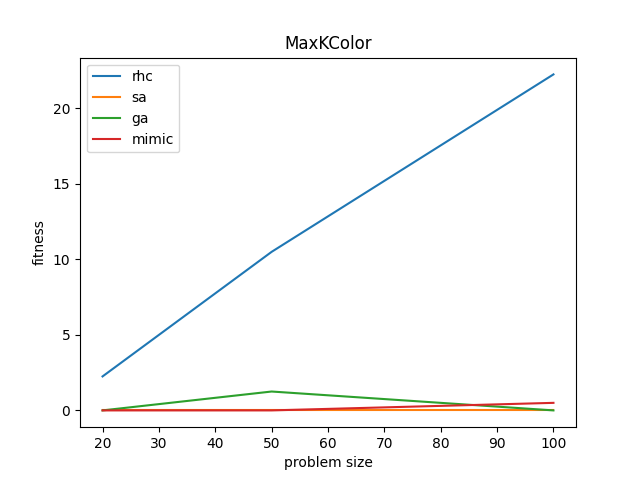
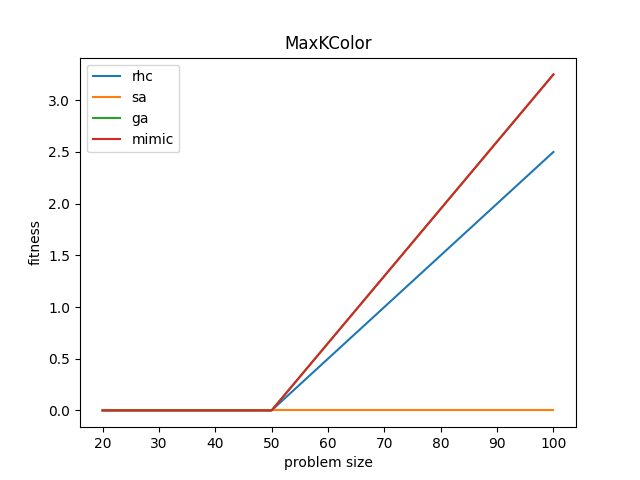
add finess over size plot for P1

diff --git a/P2-RO/main.py b/P2-RO/main.py
@@ -584,13 +584,13 @@ if __name__ == "__main__":
 
     # problem 1
     init_state = init_states = [
-        np.random.randint(0, 2, 10),
-        np.random.randint(0, 2, 30),
+        np.random.randint(0, 2, 20),
         np.random.randint(0, 2, 50),
+        np.random.randint(0, 2, 100),
         # np.random.randint(0, 2, 100) # mimic takes a long time to run, will need to run overnight
     ]
     # plt.figure()
-    fit_func = SixPeaks()
+    fit_func = MaxKColor([])
 
     # calls for tuning
     # get medium size
@@ -750,20 +750,20 @@ if __name__ == "__main__":
     #     problem = MaxKColorGenerator().generate(seed=123, number_of_nodes=len(init_state),
     #                                             max_connections_per_node=4, max_colors=None)
     #     # RHC_vals.append(
-    #     _,_,evals = run_RHC_1(problem, init_state)
-    #     RHC_vals.append(evals)
+    #     fit,_,evals = run_RHC_1(problem, init_state)
+    #     RHC_vals.append(fit)
     #     # )
     #     # SA_vals.append(
-    #     _,_,evals = run_SA_1(problem, init_state)
-    #     SA_vals.append(evals)
+    #     fit,_,evals = run_SA_1(problem, init_state)
+    #     SA_vals.append(fit)
     #     # )
     #     # GA_vals.append(
-    #     _,_,evals = run_GA_1(problem, init_state)
-    #     GA_vals.append(evals)
+    #     fit,_,evals = run_GA_1(problem, init_state)
+    #     GA_vals.append(fit)
     #     # )
     #     # MIMIC_vals.append(
-    #     _,_,evals = run_MIMIC_1(problem, init_state)
-    #     MIMIC_vals.append(evals)
+    #     fit,_,evals = run_MIMIC_1(problem, init_state)
+    #     MIMIC_vals.append(fit)
     #     #)
     # plt.plot(lens, RHC_vals, label="rhc")
     # plt.plot(lens, SA_vals, label="sa")
@@ -774,80 +774,80 @@ if __name__ == "__main__":
     # problem_name = str(fit_func).split('.')[-1].split(' ')[0]
     # plt.title(problem_name)
     # plt.xlabel("problem size")
-    # plt.ylabel("fevals")
+    # plt.ylabel("fitness")
     # plt.legend()
-    # plt.savefig(f"charts/{problem_name}_fevals")
+    # plt.savefig(f"charts/{problem_name}")
     # plt.show()
     # plt.close('all')
 
     # problem 2
-    init_state = init_states = [
-        np.random.randint(0, 2, 10),
-        np.random.randint(0, 2, 30),
-        np.random.randint(0, 2, 50),
-        # np.random.randint(0, 2, 100) # mimic takes a long time to run, will need to run overnight
-    ]
+    # init_state = init_states = [
+    #     np.random.randint(0, 2, 10),
+    #     np.random.randint(0, 2, 30),
+    #     np.random.randint(0, 2, 50),
+    #     # np.random.randint(0, 2, 100) # mimic takes a long time to run, will need to run overnight
+    # ]
+    # # plt.figure()
+    # fit_func = SixPeaks()
+    #
+    # # calls for tuning
+    # # get medium size
+    # # init_state = init_states[1]
+    # # problem = DiscreteOpt(length=len(init_state), fitness_fn=fit_func)
+    # # run_RHC_2(problem, init_state)
+    # # run_SA_2(problem, init_state)
+    # # run_GA_2(problem, init_state)
+    # # run_MIMIC_2(problem, init_state)
+    #
+    # # plot time over problem sizes
+    # lens = [len(init_state) for init_state in init_states]
+    # RHC_vals = []
+    # SA_vals = []
+    # GA_vals = []
+    # MIMIC_vals = []
+    # RHC_times = []
+    # SA_times = []
+    # GA_times = []
+    # MIMIC_times = []
+    # for init_state in init_states:
+    #     problem = DiscreteOpt(length=len(init_state), fitness_fn=fit_func)
+    #     fit, duration,_ = run_RHC_2(problem, init_state)
+    #     RHC_vals.append(fit)
+    #     RHC_times.append(duration)
+    #     fit, duration,_ = run_SA_2(problem, init_state)
+    #     SA_vals.append(fit)
+    #     SA_times.append(duration)
+    #     fit, duration,_ = run_GA_2(problem, init_state)
+    #     GA_vals.append(fit)
+    #     GA_times.append(duration)
+    #     fit, duration,_ = run_MIMIC_2(problem, init_state)
+    #     MIMIC_vals.append(fit)
+    #     MIMIC_times.append(duration)
+    # plt.plot(lens, RHC_vals, label="rhc")
+    # plt.plot(lens, SA_vals, label="sa")
+    # plt.plot(lens, GA_vals, label="ga")
+    # plt.plot(lens, MIMIC_vals, label="mimic")
+    #
+    # print()
+    # problem_name = str(fit_func).split('.')[-1].split(' ')[0]
+    # plt.title(problem_name)
+    # plt.xlabel("problem size")
+    # plt.ylabel("fitness")
+    # plt.legend()
+    # plt.savefig(f"charts/{problem_name}")
+    #
     # plt.figure()
-    fit_func = SixPeaks()
-
-    # calls for tuning
-    # get medium size
-    # init_state = init_states[1]
-    # problem = DiscreteOpt(length=len(init_state), fitness_fn=fit_func)
-    # run_RHC_2(problem, init_state)
-    # run_SA_2(problem, init_state)
-    # run_GA_2(problem, init_state)
-    # run_MIMIC_2(problem, init_state)
-
-    # plot time over problem sizes
-    lens = [len(init_state) for init_state in init_states]
-    RHC_vals = []
-    SA_vals = []
-    GA_vals = []
-    MIMIC_vals = []
-    RHC_times = []
-    SA_times = []
-    GA_times = []
-    MIMIC_times = []
-    for init_state in init_states:
-        problem = DiscreteOpt(length=len(init_state), fitness_fn=fit_func)
-        fit, duration,_ = run_RHC_2(problem, init_state)
-        RHC_vals.append(fit)
-        RHC_times.append(duration)
-        fit, duration,_ = run_SA_2(problem, init_state)
-        SA_vals.append(fit)
-        SA_times.append(duration)
-        fit, duration,_ = run_GA_2(problem, init_state)
-        GA_vals.append(fit)
-        GA_times.append(duration)
-        fit, duration,_ = run_MIMIC_2(problem, init_state)
-        MIMIC_vals.append(fit)
-        MIMIC_times.append(duration)
-    plt.plot(lens, RHC_vals, label="rhc")
-    plt.plot(lens, SA_vals, label="sa")
-    plt.plot(lens, GA_vals, label="ga")
-    plt.plot(lens, MIMIC_vals, label="mimic")
-
-    print()
-    problem_name = str(fit_func).split('.')[-1].split(' ')[0]
-    plt.title(problem_name)
-    plt.xlabel("problem size")
-    plt.ylabel("fitness")
-    plt.legend()
-    plt.savefig(f"charts/{problem_name}")
-
-    plt.figure()
-    plt.title(f"{problem_name} times")
-    plt.xlabel("problem size")
-    plt.ylabel("time (seconds)")
-    plt.plot(lens, RHC_times, label="rhc")
-    plt.plot(lens, SA_times, label="sa")
-    plt.plot(lens, GA_times, label="ga")
-    plt.plot(lens, MIMIC_times, label="mimic")
-    plt.legend()
-    plt.savefig(f"charts/{problem_name}_time")
-    plt.show()
-    plt.close('all')
+    # plt.title(f"{problem_name} times")
+    # plt.xlabel("problem size")
+    # plt.ylabel("time (seconds)")
+    # plt.plot(lens, RHC_times, label="rhc")
+    # plt.plot(lens, SA_times, label="sa")
+    # plt.plot(lens, GA_times, label="ga")
+    # plt.plot(lens, MIMIC_times, label="mimic")
+    # plt.legend()
+    # plt.savefig(f"charts/{problem_name}_time")
+    # plt.show()
+    # plt.close('all')
 
     # problem 3
 
